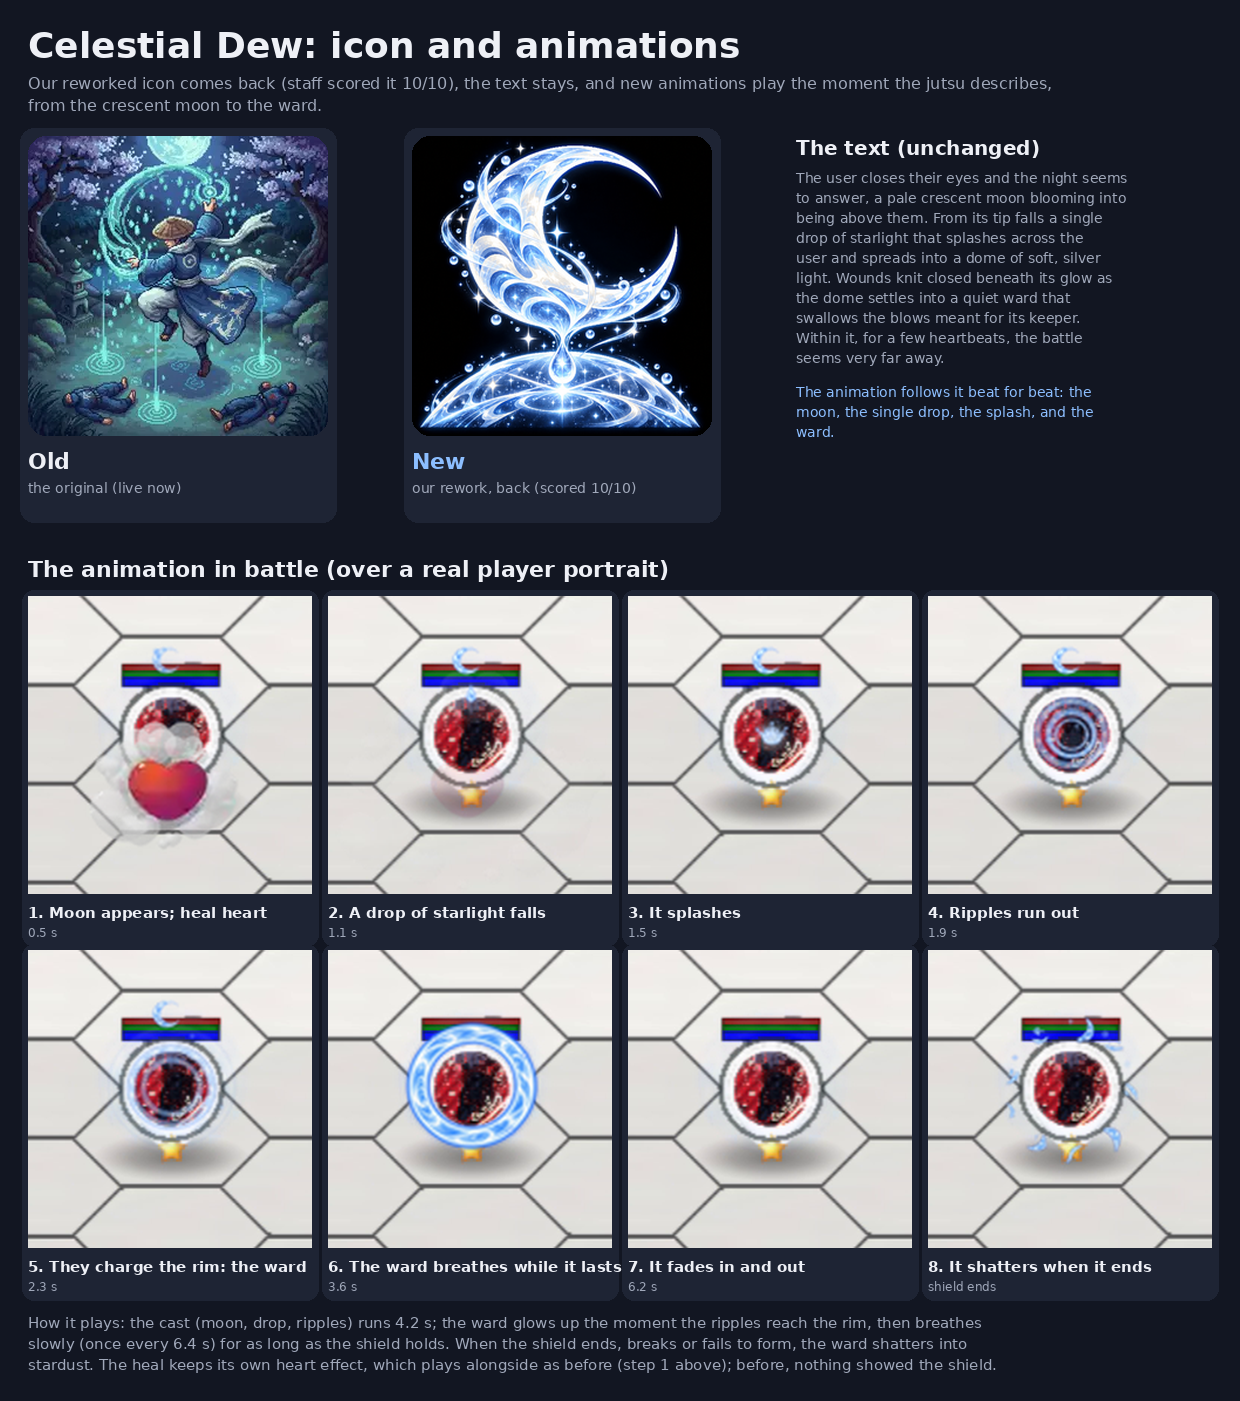
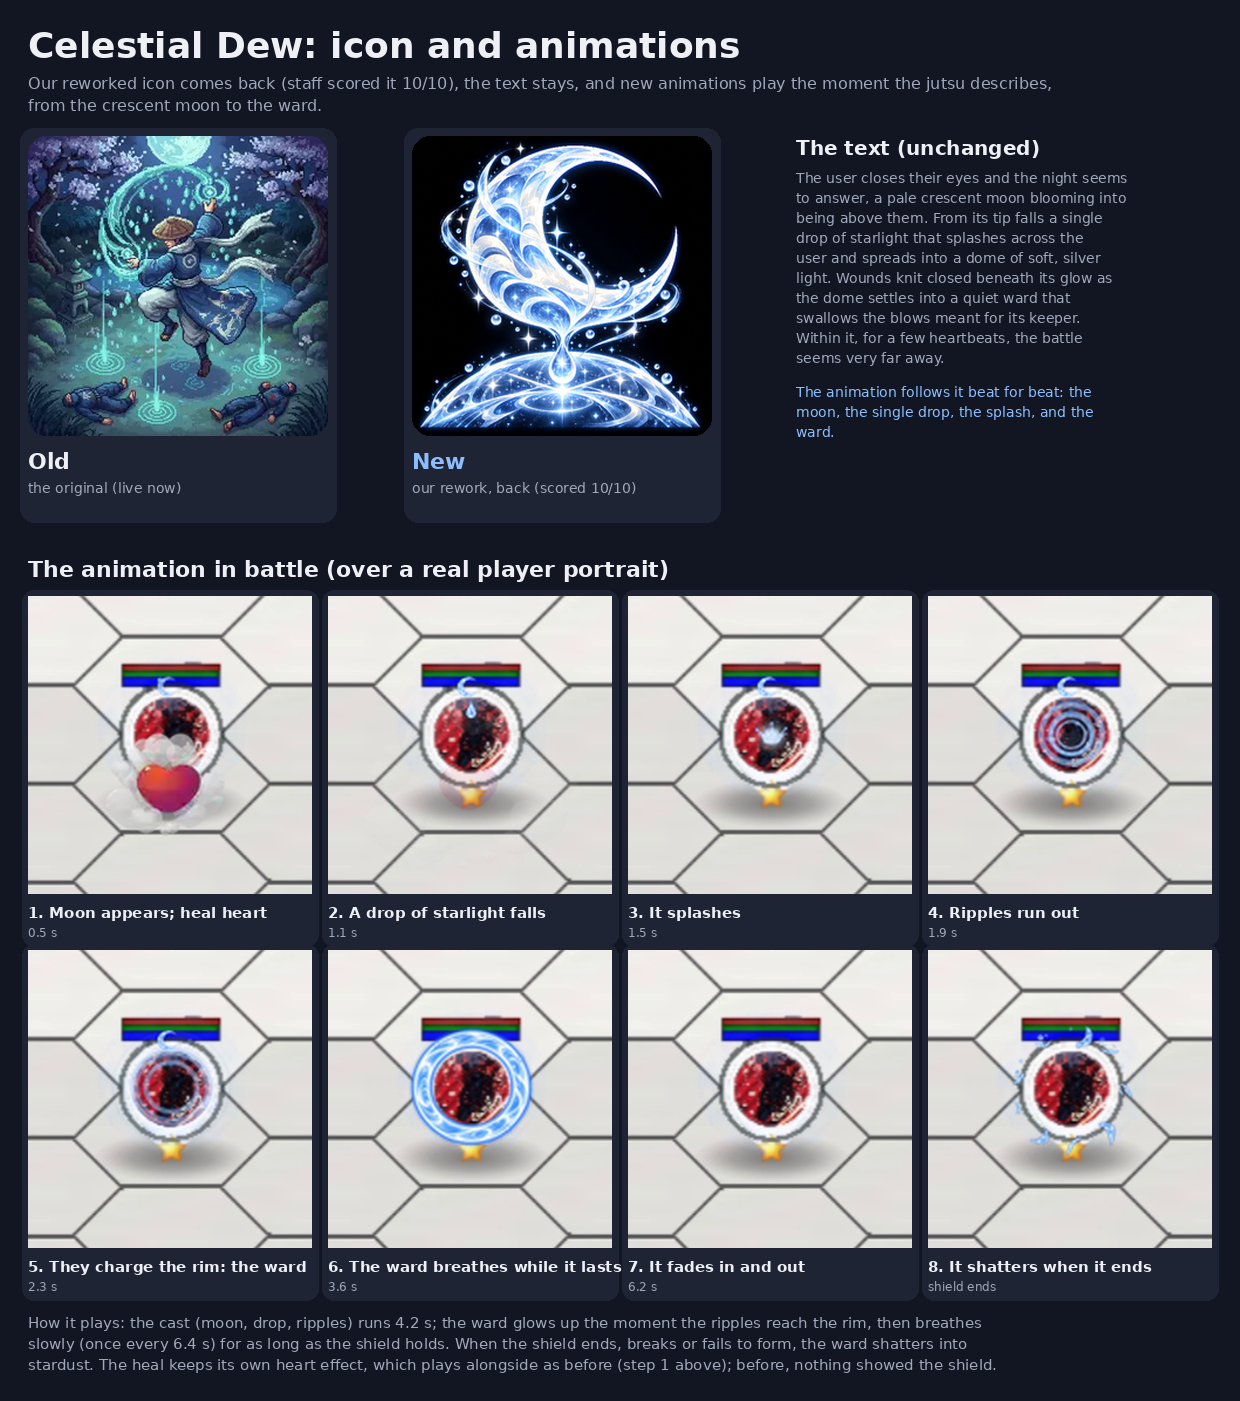
Celestial Dew v8: one layout for every screen, for effects drawn at 2.5 tile heights (the upstream change)
Claude-Session: https://claude.ai/code/session_01BK7FehqLqgE1qdDYPV9z98

diff --git a/art/jutsu_icons/celestial_dew/animation/build_strip.py b/art/jutsu_icons/celestial_dew/animation/build_strip.py
@@ -36,14 +36,18 @@ S = er.S                                  # working size
 #   white marker: 0.9 h x 1.1 h at (w/2, 0.9 h); star: h/2.5 at (w/2, 0.4 h); health bar at h + w/3;
 #   both groups sit at the tile origin (-x, -y); the camera is orthographic over the canvas width, so a world unit is a
 #   CSS pixel; the battle grid is 12 columns, so hexsize = width / 9.25 and the tile height h = hexsize / 2.
-# The effect stays 50 units while h grows with the canvas, so the portrait's place in the square depends on the
-# screen. Reference: the director's phone recording of 2026-10-24 (h = 16.1, a canvas about 298 CSS px wide), where the
-# source model matches the measured avatar (centre 0.339, radius 0.130 of the square). Change H_REF to retune.
-H_REF = 16.1
-AV_CY = 0.5 - (H_REF / 2) / 50          # avatar centre, from the square's top (0.339)
-AV_R = 0.4 * H_REF / 50                 # avatar radius (0.129)
-RIM_CY, RIM_OUT = 0.325, 0.163          # the white marker disc round it (measured: the marker art's shape is not in source)
-HPBAR_Y = 0.5 - (H_REF / 2 + 2 * H_REF / 3) / 50   # the health bar (0.124)
+# Before the upstream change the effect stayed 50 units while h grew with the canvas, so the portrait's place in the
+# square depended on the screen (v6/v7 were tuned to the director's phone, h = 16.1).
+# All screens (director, 2026-10-24: "Just assume the PR is done and build the version that fits all screens"): with
+# the upstream change the effect is drawn at 2.5 h (scale: h * 2.5), so the portrait's place in the square is the same on
+# every screen. In tile heights: the avatar centre is h/2 above the effect centre, radius 0.4 h; the white marker disc
+# (measured on the director's phone, h = 16.1: centre 8.75 units = 0.543 h above the effect centre, radius 8.15 units =
+# 0.506 h); the health bar 1.167 h above it.
+EFFECT_H = 2.5                          # the effect square, in tile heights
+AV_CY = 0.5 - 0.5 / EFFECT_H            # avatar centre, from the square's top (0.30)
+AV_R = 0.4 / EFFECT_H                   # avatar radius (0.16)
+RIM_CY, RIM_OUT = 0.5 - 0.543 / EFFECT_H, 0.506 / EFFECT_H   # the white disc (0.283, 0.202)
+HPBAR_Y = 0.5 - (0.5 + 2 / 3) / EFFECT_H                    # the health bar (0.033)
 PCY = RIM_CY                            # the ward and its ring are centred on the white disc
 ease, seg, smooth = er.ease, er.seg, er.smooth
 BEHIND_MASK = er.BEHIND_MASK
@@ -68,7 +72,7 @@ LOOP_RISE_T = 0.36                                # loop phase where its gentle 
 # the ward band's inner edge, as a frame radius. The portrait reaches to 0.024 of the frame top, so a ring round it has
 # little room there: the band is tucked over the portrait's rim (outer edge about 0.246, its top at about 0.05) so it
 # stays inside the frame (director, 2026-10-24: "the circle seems to clip at the top when the ward forms")
-RING_INNER = RIM_OUT + 0.004            # the ward band starts just outside the white disc
+RING_INNER = RIM_OUT - 0.01             # the ward band over the white disc's edge (its top stays inside the square)
 RIPPLE_END = RING_INNER + 0.02          # where the ripples end: inside the ward band
 W1_INNER = 390 / 1254  # the band's inner edge in the W1 art (measured), as a fraction of its canvas
 R1_OUTER = 536 / 1254  # the R1 art's outer crest radius, as a fraction of its canvas width (measured)
@@ -148,7 +152,7 @@ def layers():
 # the chakra overflow rising star"): upright as in the icon (a C opening to the right), about a fifth of the frame tall,
 # on top of the head (Chakra Overflow's crown star sits at 0.075 of the frame from the top, about 0.24 tall). It is
 # placed so its lower horn's tip is directly above the portrait's centre: the drop falls from it straight down.
-MOON_H, MOON_Y = 0.11, 0.062           # above the health bar (0.124), clear of the portrait
+MOON_H, MOON_Y = 0.10, 0.075           # on top of the head, over the health bar (no room above it at 2.5 h)
 
 
 def _moon_place():
@@ -175,7 +179,7 @@ def appear_frames():
     (mx, my, mw), horn = _moon_place()
     rnd = random.Random(3)
     thrown = [dict(img=Lr['glints'][i % len(Lr['glints'])], ang=-math.pi / 2 + rnd.uniform(-1.3, 1.3),
-                   v=rnd.uniform(0.005, 0.008), s=rnd.uniform(0.025, 0.04)) for i in range(6)]
+                   v=rnd.uniform(0.006, 0.010), s=rnd.uniform(0.03, 0.05)) for i in range(6)]
     out = []
     for f in range(CAST_N):
         front = Image.new('RGBA', (S, S), (0, 0, 0, 0))
@@ -193,15 +197,15 @@ def appear_frames():
             sw = ease(seg(f, 12, 20))
             q = seg(f, 20, IMPACT) ** 2
             y = horn[1] + 0.015 + (AV_CY - horn[1] - 0.015) * q
-            put(top, Lr['D1_drop'], 0.5, y, 0.045 * (0.4 + 0.6 * sw), 1.0)
+            put(top, Lr['D1_drop'], 0.5, y, 0.055 * (0.4 + 0.6 * sw), 1.0)
         # 3. the splash at the centre, a flash, glints thrown up
         if IMPACT <= f < IMPACT + 15:
             p = seg(f, IMPACT, IMPACT + 15)
-            put(front, Lr['S1_splash'], 0.5, AV_CY - 0.012, 0.17 * (0.6 + 0.4 * ease(min(1, p * 3))), 0.85 * (1 - ease(p)))
+            put(front, Lr['S1_splash'], 0.5, AV_CY - 0.015, 0.21 * (0.6 + 0.4 * ease(min(1, p * 3))), 0.85 * (1 - ease(p)))
         fl = ease(seg(f, IMPACT - 1, IMPACT + 1)) * (1 - ease(seg(f, IMPACT + 1, IMPACT + 7)))
         if fl > 0:
             g = Image.new('L', (S, S), 0)
-            ImageDraw.Draw(g).ellipse([0.5 * S - 0.035 * S, AV_CY * S - 0.035 * S, 0.5 * S + 0.035 * S, AV_CY * S + 0.035 * S], fill=255)
+            ImageDraw.Draw(g).ellipse([0.5 * S - 0.045 * S, AV_CY * S - 0.045 * S, 0.5 * S + 0.045 * S, AV_CY * S + 0.045 * S], fill=255)
             g = g.filter(ImageFilter.GaussianBlur(S * 0.025)).point(lambda v, a=fl: int(v * a))
             top.alpha_composite(Image.merge('RGBA', (Image.new('L', (S, S), 240), Image.new('L', (S, S), 248), Image.new('L', (S, S), 255), g)))
         for d in thrown:
@@ -229,7 +233,7 @@ def appear_frames():
                 r = RING_INNER + 0.03 + 0.015 * p
                 q = math.sin(math.pi * p)
                 put(top, Lr['glints'][(k * 2 + 1) % len(Lr['glints'])], 0.5 + r * math.cos(ang), PCY + r * math.sin(ang),
-                    0.035 * (0.5 + 0.5 * q), q)
+                    0.04 * (0.5 + 0.5 * q), q)
         out.append(finish(Image.new('RGBA', (S, S), (0, 0, 0, 0)), front, top))
     return out
 
@@ -266,7 +270,7 @@ def loop_frames():
             if q > 0:
                 r = RING_INNER + 0.03
                 put(front, Lr['glints'][1], 0.5 + r * math.cos(math.radians(ang)), PCY + r * math.sin(math.radians(ang)),
-                    0.035 * (0.5 + 0.5 * q), 0.9 * q)
+                    0.04 * (0.5 + 0.5 * q), 0.9 * q)
         out.append(finish(Image.new('RGBA', (S, S), (0, 0, 0, 0)), front))
     return out
 
@@ -331,7 +335,7 @@ def break_frames():
                 r = RING_INNER + 0.025 + d['v'] * tt
                 x, y = 0.5 + r * math.cos(d['ang']), PCY + r * math.sin(d['ang']) + 0.0006 * tt * tt
                 tangent = -math.degrees(d['ang']) - 90
-                put(front, d['img'], x, y, 0.06 * (1 - 0.3 * p), (1 - ease(p)) * min(1, f / 3), tangent + d['spin'] * p)
+                put(front, d['img'], x, y, 0.07 * (1 - 0.3 * p), (1 - ease(p)) * min(1, f / 3), tangent + d['spin'] * p)
         # stardust rises
         for k in range(5):
             p = seg(f, 3 + k, 3 + k + 16)
@@ -364,4 +368,4 @@ if __name__ == '__main__':
     a = ap.parse_args()
     for name, fn in BUILDERS.items():
         if a.only in (None, name):
-            save_strip(fn(), f'{name}_v7')
+            save_strip(fn(), f'{name}_v8')

diff --git a/push/243_celestial_dew_animations_v4.gen.py b/push/243_celestial_dew_animations_v4.gen.py
@@ -1,5 +1,5 @@
 #!/usr/bin/env python3
-"""Build push/243: put the v7 Celestial Dew strips on the three existing assets (direct edits).
+"""Build push/243: put the v8 Celestial Dew strips on the three existing assets (direct edits).
 
     python3 push/243_celestial_dew_animations_v4.gen.py <push/238 results bundle>
 
@@ -7,7 +7,7 @@ v4 (director, 2026-10-24: "The animations circle seems to clip at the top when t
 over the portrait's rim so it stays inside the frame (PROJECT.md section 10). v5 (section 11): the appear flashes the
 ward up as the ripples touch the rim and hands over to the loop's slower breath (5.76 s). v6 (section 12): built on the
 portrait's real geometry from the pinned source (the earlier versions assumed it). v7: the ward brightens slowly (0.8 s)
-and the breath is 6.4 s. Same
+and the breath is 6.4 s. v8 (section 15): one layout for every screen, for the effect drawn at 2.5 h (the upstream change). Same
 asset ids, so push/240 is unchanged. New filenames (law 32); hidden stays false (law 16c). The image pack is pinned at
 HEAD: commit the strips first.
 """
@@ -18,9 +18,9 @@ os.chdir(ROOT)
 OUT = 'push/243_celestial_dew_animations_v4.json'
 E = 'art/jutsu_icons/celestial_dew/animation/exports/'
 CREATE = 'archive/spent-manifests/push-2026-10-22/238_celestial_dew_animations.json'
-STRIPS = {'cd_anim_appear': ('anim_celestial_dew_appear_v7.webp', 92, 46),
-          'cd_anim_loop': ('anim_celestial_dew_loop_v7.webp', 64, 100),
-          'cd_anim_break': ('anim_celestial_dew_break_v7.webp', 30, 46)}
+STRIPS = {'cd_anim_appear': ('anim_celestial_dew_appear_v8.webp', 92, 46),
+          'cd_anim_loop': ('anim_celestial_dew_loop_v8.webp', 64, 100),
+          'cd_anim_break': ('anim_celestial_dew_break_v8.webp', 30, 46)}
 if len(sys.argv) != 2:
     raise SystemExit(__doc__)
 idmap = json.load(open(sys.argv[1])).get('idmap', {})
@@ -41,7 +41,7 @@ for it in json.load(open(CREATE))['items']:
     data = dict(it['data'], image='@img:' + fn, frames=frames, speed=speed, hidden=False)
     items.append({"entity": "asset", "slot": "edit", "targetId": aid, "name": it['name'], "data": data})
 m = {
-    "_note": "Celestial Dew v7 strips (slower brightening) on the three existing assets, built on the portrait's real geometry from the game source: the ward ring stays inside the frame (it clipped at the top), and the appear flashes the ward up and hands over to the loop's slower breath. Same ids, so push/240 is unchanged; new filenames (law 32); hidden false (law 16c). Generated by push/243_celestial_dew_animations_v4.gen.py; do not hand-edit.",
+    "_note": "Celestial Dew v8 strips (one layout for every screen, for the upstream effect scaling; slower brightening) on the three existing assets, built on the portrait's real geometry from the game source: the ward ring stays inside the frame (it clipped at the top), and the appear flashes the ward up and hands over to the loop's slower breath. Same ids, so push/240 is unchanged; new filenames (law 32); hidden false (law 16c). Generated by push/243_celestial_dew_animations_v4.gen.py; do not hand-edit.",
     "imgSizes": sizes,
     "imagePack": {"ref": ref, "files": pack},
     "items": items,

diff --git a/docs/design/celestial_dew_animation/showcase/make_showcase.py b/docs/design/celestial_dew_animation/showcase/make_showcase.py
@@ -14,7 +14,7 @@ ROOT = os.path.abspath(os.path.join(HERE, '..', '..', '..', '..'))
 REC = os.path.join(ROOT, 'docs/design/icon_overhaul/ethereal_rebirth/showcase/battle_recording_2026-10-24.mp4')
 A = os.path.join(ROOT, 'art/jutsu_icons/celestial_dew/animation/')
 spec = importlib.util.spec_from_file_location('cd', A + 'build_strip.py'); cd = importlib.util.module_from_spec(spec); spec.loader.exec_module(cd)
-V = 'v7'
+V = 'v8'
 F = lambda s, b=False: ImageFont.truetype('/usr/share/fonts/truetype/dejavu/DejaVuSans%s.ttf' % ('-Bold' if b else ''), s)
 BG, CARD, FG, DIM, ACC = (18, 22, 34), (30, 36, 52), (238, 240, 246), (160, 168, 186), (140, 190, 255)
 BATTLE = ("%user closes their eyes and the night seems to answer, a pale crescent moon blooming into being above them. From "
@@ -28,7 +28,7 @@ BOARD = [(500, 'Moon appears; heal heart'), (1150, 'A drop of starlight falls'),
          (1950, 'Ripples run out'), (2300, 'They charge the rim: the ward'), (3600, 'The ward breathes while it lasts'),
          (6200, 'It fades in and out'), (-300, 'It shatters when it ends')]
 # the director's phone recording (2026-10-24b) and where the game draws the 50 px effect square on it (see preview.py)
-K, L, T = 184.1, 219.3, 132.1
+K, L, T = 148.2, 237.3, 150.1   # after the upstream change: 2.5 h = 40.25 units on this phone, same centre
 BOX = (215, 100, 405, 300)
 
 

diff --git a/docs/design/celestial_dew_animation/preview.py b/docs/design/celestial_dew_animation/preview.py
@@ -13,11 +13,11 @@ ROOT = os.path.abspath(os.path.join(os.path.dirname(__file__), '..', '..', '..')
 # effect square on it: measured from the v5 ward ring shown in that recording (184.1 recording px across, top-left at
 # (219.3, 132.1)); consistent with the pinned source's portrait geometry for h = 16.1 (build_strip.py H_REF).
 STILL = os.path.join(ROOT, 'docs/design/celestial_dew_animation/battle_still_2026-10-24b.png')
-V = sys.argv[1] if len(sys.argv) > 1 else 'v7'
+V = sys.argv[1] if len(sys.argv) > 1 else 'v8'
 OUT = sys.argv[2] if len(sys.argv) > 2 else os.path.join(ROOT, f'docs/design/celestial_dew_animation/{V}_over_avatar.gif')
 A = os.path.join(ROOT, 'art/jutsu_icons/celestial_dew/animation/')
 spec = importlib.util.spec_from_file_location('cd', A + 'build_strip.py'); cd = importlib.util.module_from_spec(spec); spec.loader.exec_module(cd)
-K, L, T = 184.1, 219.3, 132.1
+K, L, T = 148.2, 237.3, 150.1   # after the upstream change: 2.5 h = 40.25 units on this phone, same centre
 BOX, SC, TICK = (215, 100, 405, 300), 2, 40
 bg = Image.open(STILL).convert('RGBA').crop(BOX)
 bg = bg.resize((bg.width * SC, bg.height * SC), Image.LANCZOS)

diff --git a/push/README.md b/push/README.md
@@ -759,15 +759,15 @@ hit animation). Re-sends the live effects array and `injectableInBattle` (false,
 damage (INHERIT) keeps `iDv3rjj81rRgD10shRqSn`; **absorb (SELF) plays `HwkXTjErL_Laxs8WtqBiI`**; decreased damage given
 (SELF) unchanged. Gates: `validate.py --strict` 0 errors, 0 warnings; `check_manifest.mjs` 0 pre-send problems.
 
-## 243 Celestial Dew animations v7: READY TO RUN (before 240)
+## 243 Celestial Dew animations v8: READY TO RUN (before 240)
 
-v7: built on the portrait's real geometry from the pinned source (PROJECT.md section 12), and the ward now brightens
-slowly (director, 2026-10-24: "It also brightens too suddenly with the appear animation, slow it down a lot": 0.8 s rise,
-hold, a 6.4 s breath). Direct edits of the three existing assets: appear `7PCuqwNbf0s8jOKEFwA_l` (92 x 46 ms = 4.2 s),
-loop `wdir89CrMcvbQNR8OFymV` (64 x 100 ms), break `h7Yg7wmA0BBCjzvNvKTp5` (30 x 46 ms); new filenames (law 32), hidden
-false (law 16c). Same ids, so push/240 needs no change. Tuned to the director's phone (H_REF 16.1): see PROJECT.md
-section 13 on other screens. Pack pinned at 9297085. Gates: `validate.py --strict` 0 errors, 0 warnings;
-`check_manifest.mjs` 0 pre-send problems.
+v8: one layout for every screen (director, 2026-10-24: "Just assume the PR is done and build the version that fits all
+screens"), built for the upstream change that draws effects at 2.5 tile heights (PROJECT.md section 15), with the slow
+brightening and 6.4 s breath. **Until that change is live the game draws it at 50 px, about 25% too large on the
+director's phone.** Direct edits of the three existing assets: appear `7PCuqwNbf0s8jOKEFwA_l` (92 x 46 ms), loop
+`wdir89CrMcvbQNR8OFymV` (64 x 100 ms), break `h7Yg7wmA0BBCjzvNvKTp5` (30 x 46 ms); new filenames (law 32), hidden false
+(law 16c). Same ids, so push/240 needs no change. Pack pinned at PACKREF. Gates: `validate.py --strict` 0 errors,
+0 warnings; `check_manifest.mjs` 0 pre-send problems.
 
 ## 242 Celestial Dew capture with the record kept: RUN (bundle tnr_results_1792883431355.json), archived. Checked against push/240: live icon is the original; heal effect identical; shield differs only by the three new animations; injectableInBattle false both. 240 stands as built.
 

diff --git a/docs/design/celestial_dew_animation/PROJECT.md b/docs/design/celestial_dew_animation/PROJECT.md
@@ -232,3 +232,17 @@ session (the repository is not attached). If it merges, the effect square become
 the portrait sits at a fixed place in it (avatar centre 0.3 from the top, radius 0.16, the h = 20 layout); Celestial Dew
 and Ethereal Rebirth are then rebuilt to that one layout and fit every screen. Until then, v7 (tuned to the director's
 phone) ships.
+
+## 15. v8: one layout for every screen (2026-10-24)
+
+Director: "Just assume the PR is done and build the version that fits all screens." With the effect drawn at 2.5 h, the
+square is the same in tile heights on every screen: avatar centre 0.30 from the top, radius 0.16; white disc centre
+0.283, radius 0.202; health bar 0.033 (`build_strip.py`: `EFFECT_H` = 2.5 and these formulas). The ward band sits over
+the white disc's edge (inner 0.192, outer about 0.249, its top 0.034 from the square's edge); the moon (0.10 tall) on top
+of the head over the health bar; splash, drop, glints, sparks and shards scaled up to the larger portrait. Strips
+`*_v8`: appear 222,084 bytes, loop 167,732, break 61,066. Checked on the director's recording at the post-change size
+(2.5 x 16.1 = 40.25 units = 148.2 recording px, same centre): `v8_on_your_recording.png`; previews and the showcase use
+that placement.
+
+**Until the upstream change is live,** the game still draws the strip at 50 px, so v8 shows about 25% too large on the
+director's phone (and differently elsewhere). push/243 ships v8 on the director's instruction.
